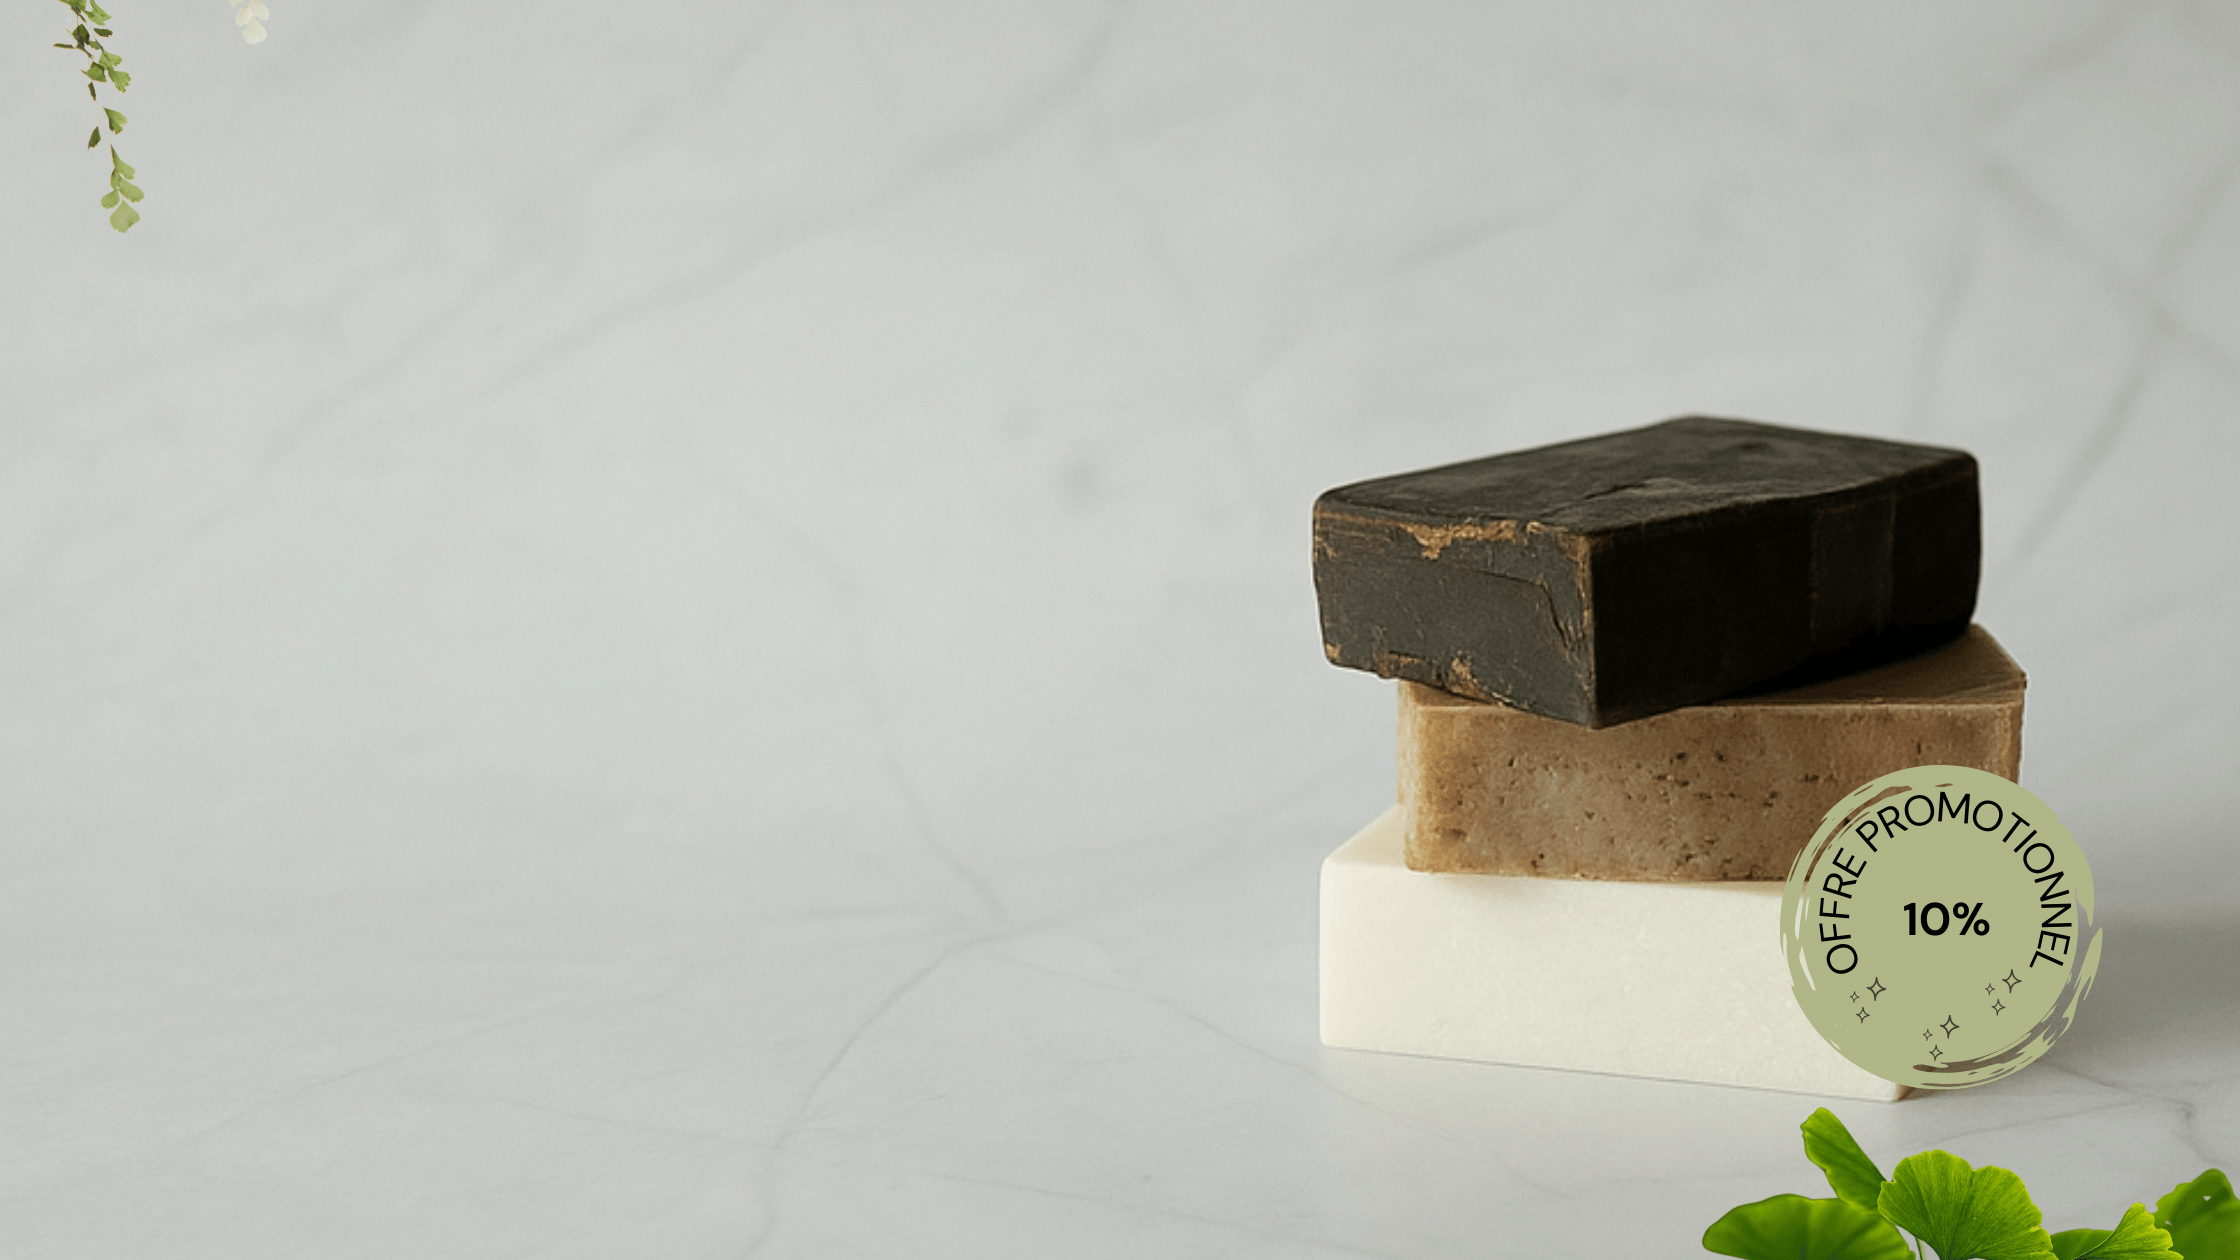
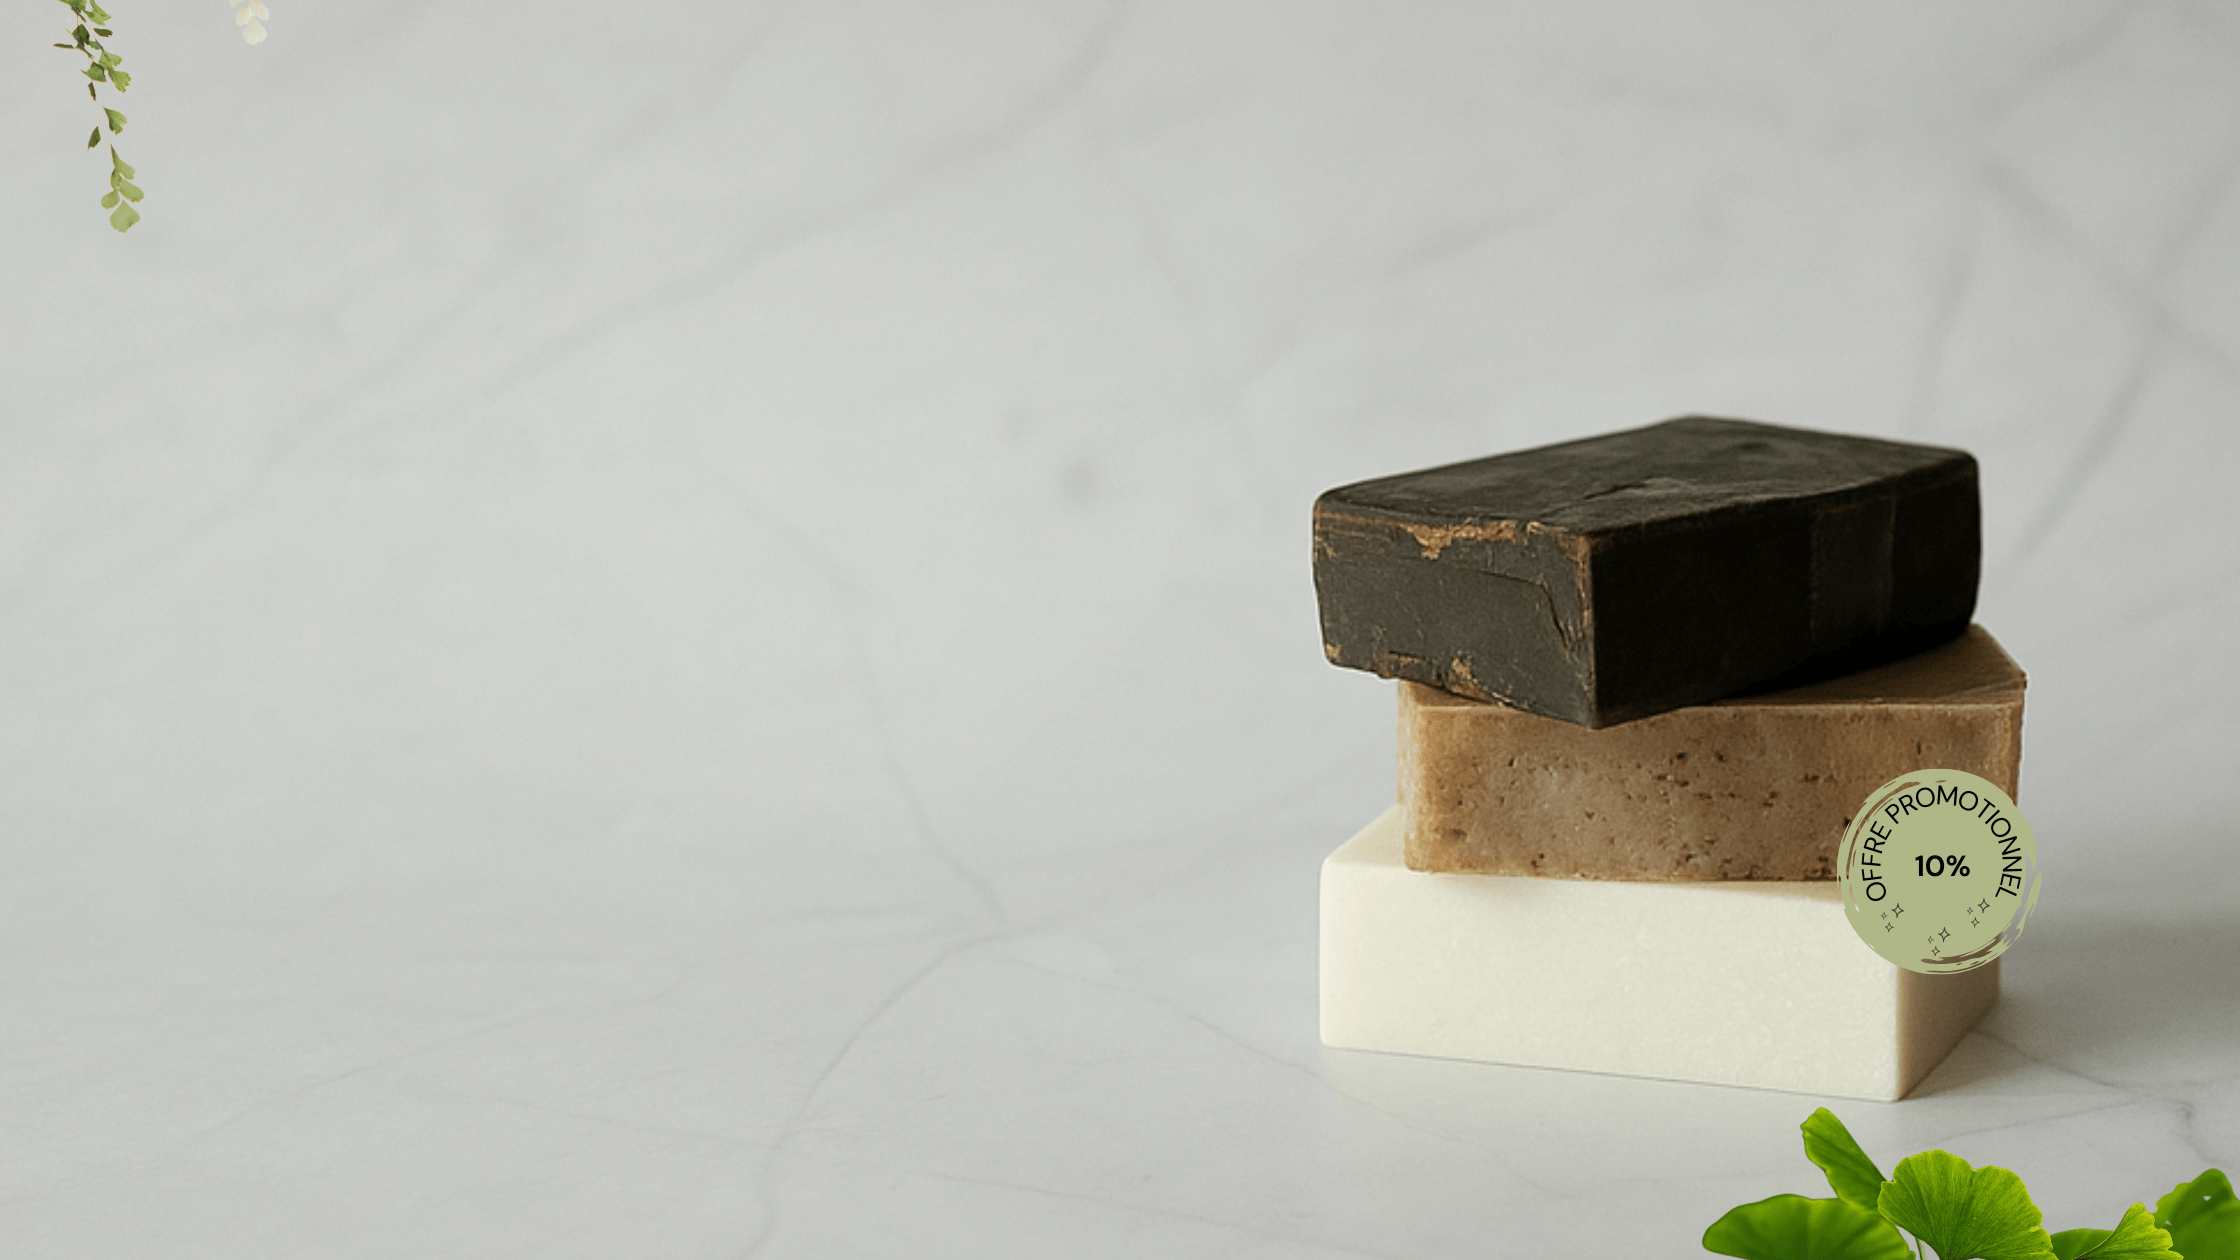
Change cover picture

Changed region(s): [[0.7812, 0.5881, 0.9375, 0.8667], [0.8438, 0.9905, 0.875, 1.0]]

diff --git a/pages/index.vue b/pages/index.vue
@@ -1,9 +1,9 @@
 <template>
-  <section class="container relative min-h-[720px] flex items-center">
+  <section class="w-[100%] relative h-[75vh] flex items-center">
     <img
-      src="/img/naturally-pure-soaps-hero.png"
+      src="/img/naturally-pure-soaps-cover.png"
       alt="les mains moussantes"
-      class="container object-cover"
+      class="w-[100%] h-[75vh] object-cover"
     />
     <div class="absolute mx-auto px-6 md:px-12 lg:px-20">
       <div class="max-w-2xl text-left">
